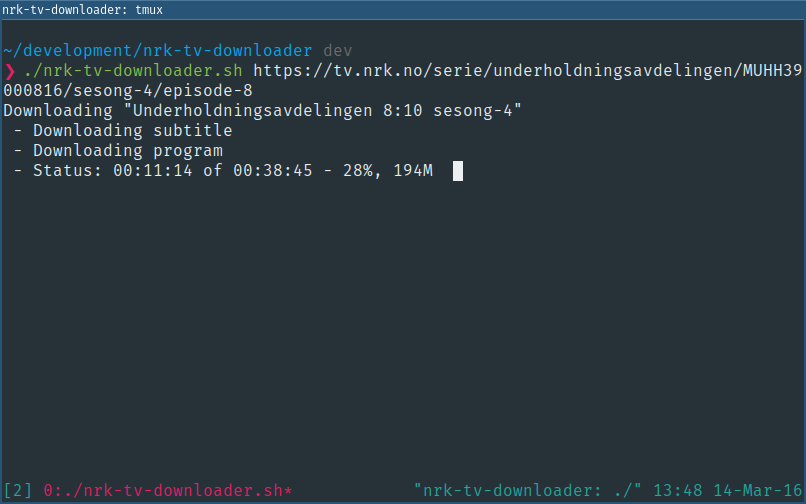
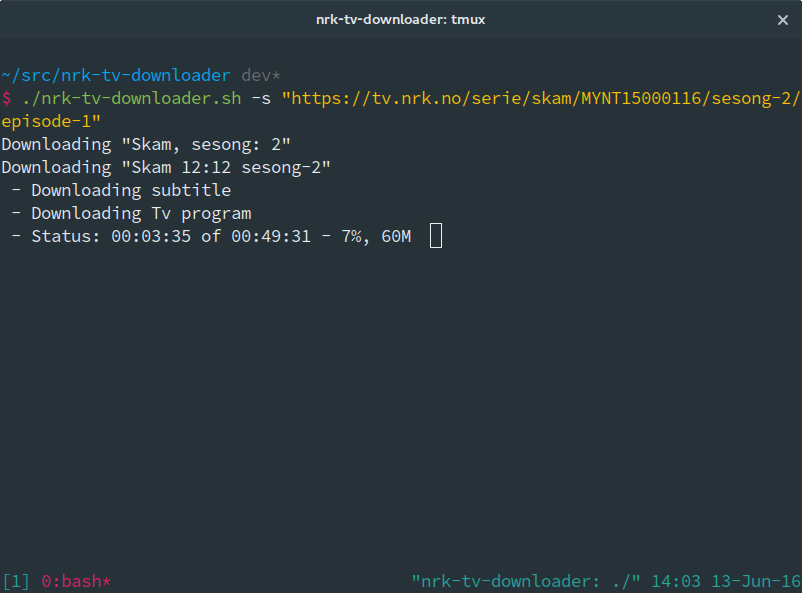
Update README

Changed region(s): [[0.0, 0.0, 1.0, 1.0]]

diff --git a/README.md b/README.md
@@ -1,11 +1,11 @@
 # nrk-tv-downloader
-> Shell-script for downloading content from nrk-tv and nrk-radio
+> Lightweight bash utility to easily download content from nrk-tv, radio and super.
 
 ![Terminal with nrk-tv-downloader](screenshot.png)
 
 ## About
 
-This is just another simple shell-script that downloads programs from nrk-tv. It also supports nrk-radio.
+This is just another simple shell-script that downloads programs from nrk-tv. It also supports nrk-radio and nrk-super.
 
 This script has nothing to do with NRK!
 
@@ -32,10 +32,10 @@ This script has nothing to do with NRK!
     For updates see <https://github.com/odinuge/nrk-tv-downloader>
 
     Example:
-    $ ./nrk-tv-downloader.sh -a http://tv.nrk.no/serie/tore-paa-sporet/dmpf71005710/17-02-2013
+    $ ./nrk-tv-downloader.sh -s "https://tv.nrk.no/serie/skam/MYNT15000116/sesong-2/episode-1"
 
 ## Requirements
-This script requires bash, rev, cut, grep, sed, awk, printf, curl and ffmpeg/avconv.
+This script requires bash, rev, cut, grep, sed, gawk, printf, curl and ffmpeg/avconv.
 
 ## License
 MIT © [Odin Ugedal](https://ugedal.com)
